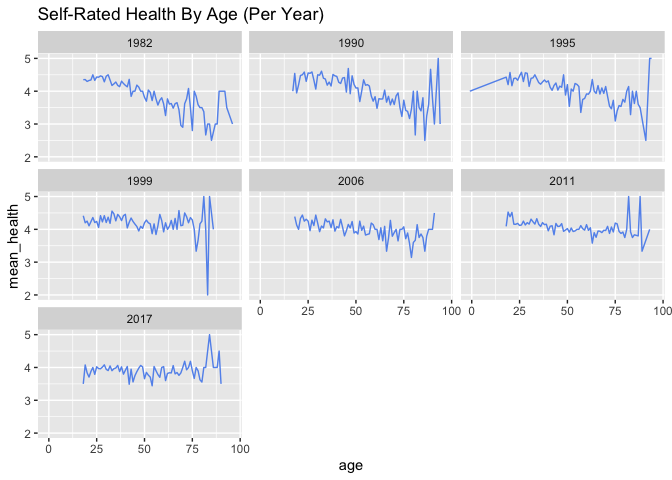
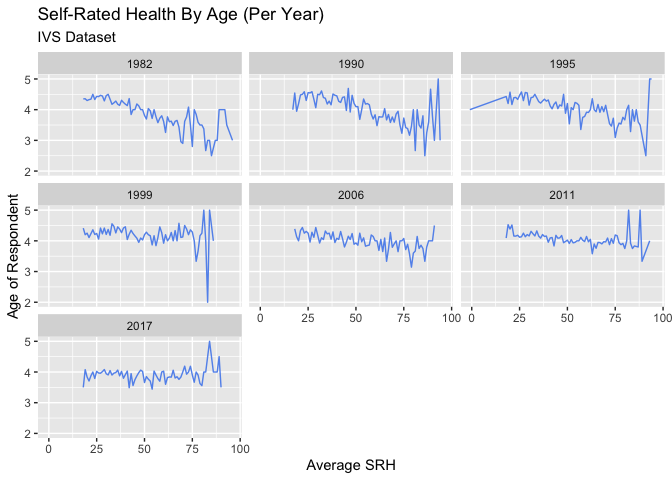
update figures

diff --git a/srh_ivs.md b/srh_ivs.md
@@ -219,7 +219,11 @@ data_ivs_usa %>%
   summarize(mean_health = mean(health)) %>% 
   ggplot(aes(x = year, y = mean_health, color = age)) +
   geom_line() +
-  geom_point()
+  labs(title = "Average SRH Per Year for Each Age Group",
+       subtitle = "IVS Dataset",
+       x = "Average SRH", 
+       y = "Year") +
+  geom_point() 
 ```
 
     ## `summarise()` has grouped output by 'age'. You can override using the `.groups`
@@ -235,7 +239,10 @@ data_ivs_usa %>%
   ggplot(aes(x = age, y = mean_health)) +
   geom_line(color = "cornflowerblue") +
   facet_wrap(~ year) +
-  labs(title = "Self-Rated Health By Age (Per Year)" )
+  labs(title = "Self-Rated Health By Age (Per Year)",
+       subtitle = "IVS Dataset",
+       x = "Average SRH", 
+       y = "Age of Respondent")
 ```
 
     ## `summarise()` has grouped output by 'age'. You can override using the `.groups`
@@ -260,7 +267,8 @@ lm_health_v_age_0 <- data_ivs_usa %>%
 
 # View the results with confidence intervals, se, t statistic, and p value
 # print(lm_health_v_age_0)
-knitr::kable(lm_health_v_age_0)
+knitr::kable(lm_health_v_age_0,
+             caption = "IVS Dataset")
 ```
 
 | year |       coef |   conf.low |  conf.high |        se | t_statistic |   p_value |
@@ -273,12 +281,15 @@ knitr::kable(lm_health_v_age_0)
 | 2011 | -0.0066024 | -0.0084288 | -0.0047760 | 0.0009313 |   -7.089158 | 0.0000000 |
 | 2017 | -0.0010629 | -0.0030305 |  0.0009047 | 0.0010034 |   -1.059309 | 0.2895584 |
 
+IVS Dataset
+
 ``` r
 # Plot coefficients
 ggplot(lm_health_v_age_0, aes(x = year, y = coef)) +
   geom_point() +
   labs(
     title = "Change in 'Age' Coefficient Over Years",
+    subtitle = "IVS Dataset",
     x = "Year",
     y = "Coefficient of Age"
   ) +
@@ -295,6 +306,7 @@ ggplot(lm_health_v_age_0, aes(x = year, y = coef)) +
   geom_ribbon(aes(ymin = conf.low, ymax = conf.high), alpha = 0.2) +  # Add shaded area for confidence intervals
   labs(
     title = "Change in 'Age' Coefficient Over Years with Confidence Intervals",
+    subtitle = "IVS Dataset",
     x = "Year",
     y = "Coefficient of Age"
   ) +
@@ -337,6 +349,7 @@ ggplot(lm_health_v_age_0, aes(x = year, y = coef)) +
   geom_ribbon(aes(ymin = conf.low, ymax = conf.high), alpha = 0.2) +  # Confidence intervals for the coefficients
   labs(
     title = "Regression of 'Age' Coefficient Over Years",
+    subtitle = "IVS Dataset",
     x = "Year",
     y = "Coefficient of Age"
   ) +
@@ -354,7 +367,8 @@ data_ivs_usa %>%
   group_by(age, cohort) %>% 
   summarize(mean_health = mean(health)) %>% 
   ggplot(aes(x = age, y = mean_health, color = cohort)) +
-  labs(title = "Age Profiles by Cohort") +
+  labs(title = "Age Profiles by Cohort", 
+       subtitle = "IVS Dataset") +
   geom_line()
 ```
 

diff --git a/srh_gss.md b/srh_gss.md
@@ -130,7 +130,11 @@ data_gss %>%
   summarize(mean_health = mean(health)) %>% 
   ggplot(aes(x = year, y = mean_health, color = age)) +
   geom_line() +
-  geom_point()
+  geom_point() +
+  labs(title = "Average SRH Per Year for Each Age Group",
+       subtitle = "GSS Dataset",
+       x = "Average SRH", 
+       y = "Year") 
 ```
 
     ## `summarise()` has grouped output by 'age'. You can override using the `.groups`
@@ -220,7 +224,11 @@ data_gss %>%
   ggplot(aes(x = age, y = mean_health)) +
   geom_line(color = "cornflowerblue") +
   facet_wrap(~ year) +
-  labs(title = "Self-Rated Health By Age (Per Year)" )
+  labs(title = "Self-Rated Health By Age (Per Year)",
+       subtitle = "GSS Dataset",
+       x = "Age of Respondent", 
+       y = "Average SRH",
+       )
 ```
 
     ## `summarise()` has grouped output by 'age'. You can override using the `.groups`
@@ -253,7 +261,8 @@ lm_health_v_age_0 <- data_gss %>%
 
 # View the results with confidence intervals, se, t statistic, and p value
 # print(lm_health_v_age_0)
-knitr::kable(lm_health_v_age_0)
+knitr::kable(lm_health_v_age_0, 
+             caption = "GSS Dataset")
 ```
 
 | year |       coef |   conf.low |  conf.high |        se | t_statistic |   p_value |
@@ -287,6 +296,8 @@ knitr::kable(lm_health_v_age_0)
 | 2021 | -0.0027071 | -0.0044122 | -0.0010020 | 0.0008695 |   -3.113335 | 0.0018717 |
 | 2022 | -0.0043263 | -0.0061604 | -0.0024923 | 0.0009352 |   -4.625959 | 0.0000040 |
 
+GSS Dataset
+
 Note that every single beta is statistically significant. Now let’s
 visualize it.
 
@@ -296,6 +307,7 @@ ggplot(lm_health_v_age_0, aes(x = year, y = coef)) +
   geom_point() +
   labs(
     title = "Change in 'Age' Coefficient Over Years",
+    subtitle = "GSS Dataset",
     x = "Year",
     y = "Coefficient of Age"
   ) +
@@ -312,6 +324,7 @@ ggplot(lm_health_v_age_0, aes(x = year, y = coef)) +
   geom_ribbon(aes(ymin = conf.low, ymax = conf.high), alpha = 0.2) +  # Add shaded area for confidence intervals
   labs(
     title = "Change in 'Age' Coefficient Over Years with Confidence Intervals",
+    subtitle = "GSS Dataset",
     x = "Year",
     y = "Coefficient of Age"
   ) +
@@ -335,6 +348,7 @@ ggplot(lm_health_v_age_0, aes(x = year, y = coef)) +
   geom_ribbon(aes(ymin = conf.low, ymax = conf.high), alpha = 0.2) +  # Confidence intervals for the coefficients
   labs(
     title = "Regression of 'Age' Coefficient Over Years",
+    subtitle = "GSS Dataset",
     x = "Year",
     y = "Coefficient of Age"
   ) +
